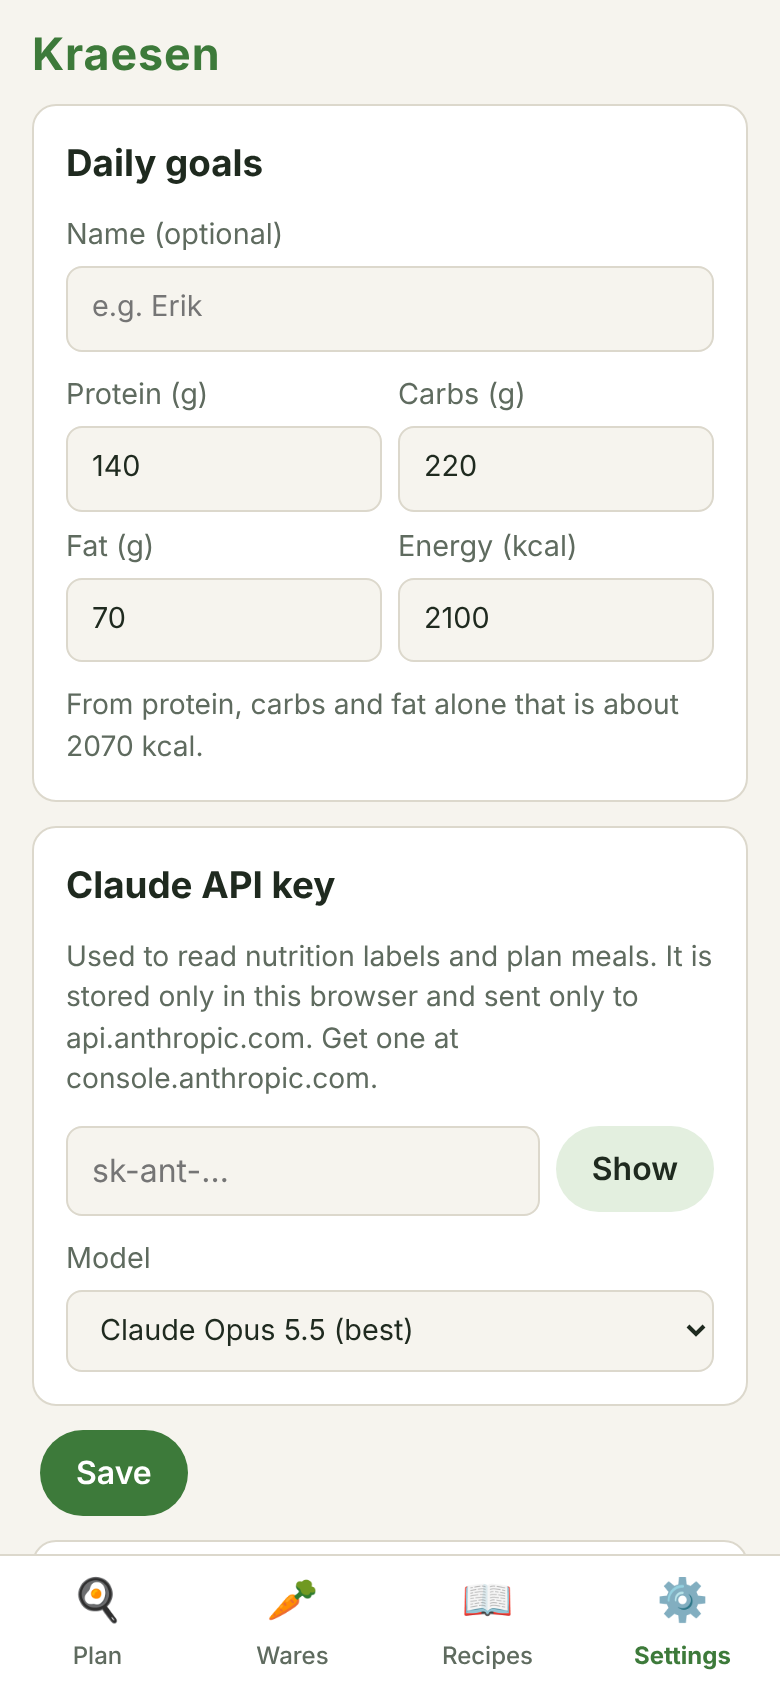
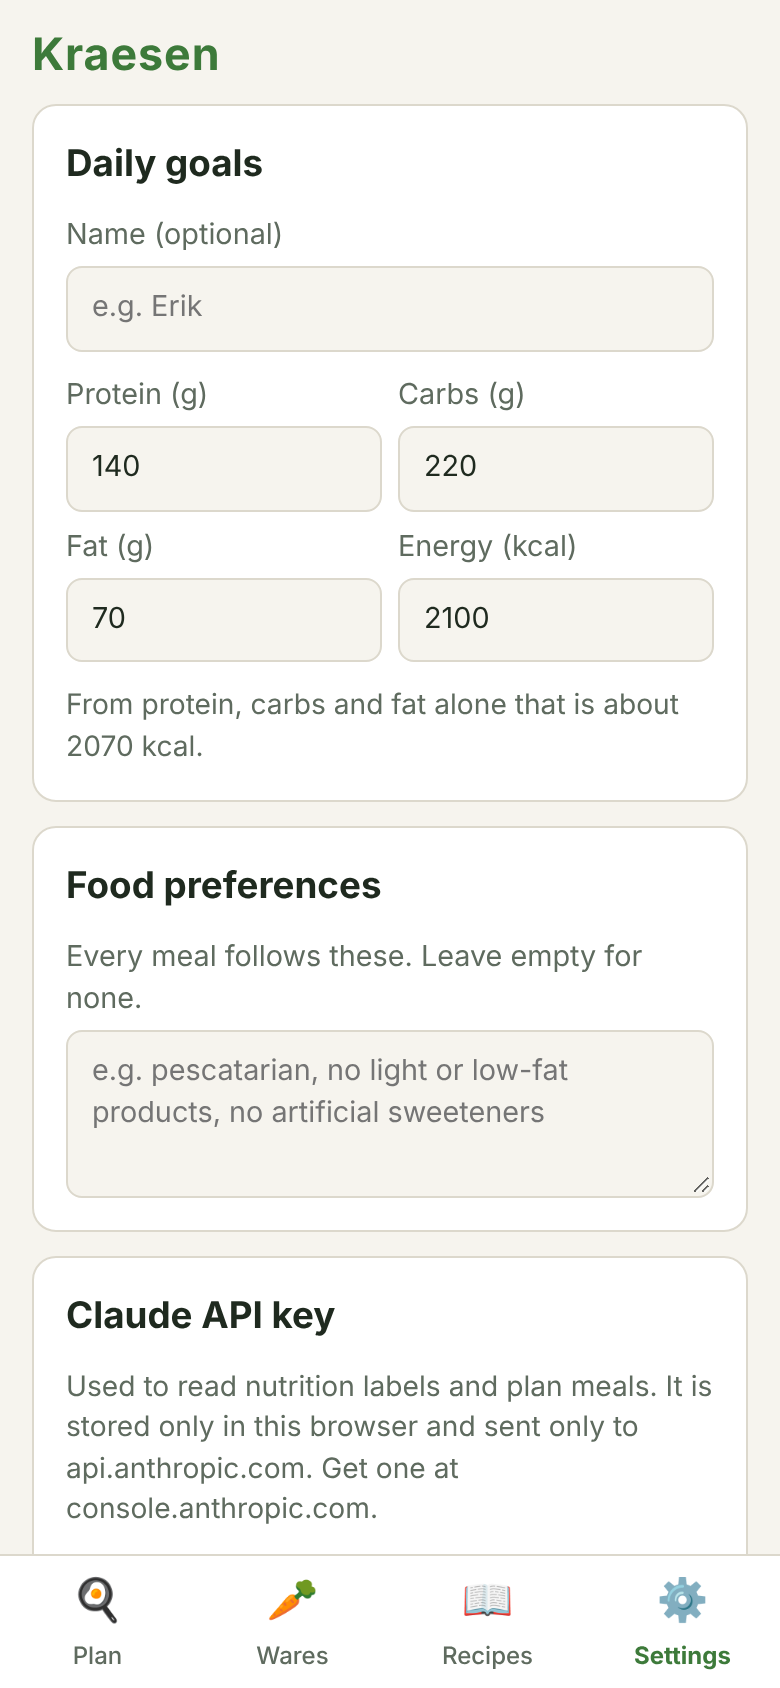
feat: food preferences sent with every meal request
Settings gets a free-text "Food preferences" field (for example
"pescatarian, no light or low-fat products"). It is stored in the profile,
exported with it, and sent with every meal request as a rule Claude must
follow, skipping any listed ware that conflicts with it.

Claude-Session: https://claude.ai/code/session_01NExJTuMKn94z8RMGD2mQMk

diff --git a/src/components/SettingsPage.tsx b/src/components/SettingsPage.tsx
@@ -15,6 +15,7 @@ export function SettingsPage() {
     state.profile?.dailyGoals ?? { protein: 140, carbs: 220, fat: 70, kcal: 2100 },
   )
   const [name, setName] = useState(state.profile?.name ?? '')
+  const [preferences, setPreferences] = useState(state.profile?.foodPreferences ?? '')
   const [apiKey, setApiKey] = useState(state.settings.apiKey)
   const [showKey, setShowKey] = useState(false)
   const [message, setMessage] = useState('')
@@ -23,7 +24,7 @@ export function SettingsPage() {
   const save = () => {
     update((s) => ({
       ...s,
-      profile: { name: name.trim(), dailyGoals: goals },
+      profile: { name: name.trim(), dailyGoals: goals, foodPreferences: preferences.trim() },
       settings: { ...s.settings, apiKey: apiKey.trim() },
     }))
     setMessage('Saved.')
@@ -46,6 +47,7 @@ export function SettingsPage() {
       replace(next)
       setGoals(next.profile?.dailyGoals ?? goals)
       setName(next.profile?.name ?? '')
+      setPreferences(next.profile?.foodPreferences ?? '')
       setMessage('Imported.')
     } catch (e) {
       setMessage(e instanceof Error ? e.message : 'Import failed.')
@@ -67,6 +69,19 @@ export function SettingsPage() {
           From protein, carbs and fat alone that is about {derivedKcal} kcal.
           {Math.abs(derivedKcal - goals.kcal) > goals.kcal * 0.1 && goals.kcal > 0 ? ' Your energy goal differs quite a bit from that.' : ''}
         </p>
+      </section>
+
+      <section className="card">
+        <h2>Food preferences</h2>
+        <label>
+          <span>Every meal follows these. Leave empty for none.</span>
+          <textarea
+            rows={3}
+            value={preferences}
+            onChange={(e) => setPreferences(e.target.value)}
+            placeholder="e.g. pescatarian, no light or low-fat products, no artificial sweeteners"
+          />
+        </label>
       </section>
 
       <section className="card">

diff --git a/src/claude.test.ts b/src/claude.test.ts
@@ -20,6 +20,7 @@ const req = (willingness: MealRequest['willingness']): MealRequest => ({
   target: { protein: 40, carbs: 20, fat: 10, kcal: 330 },
   willingness,
   wish: '',
+  preferences: '',
 })
 
 type Block = { type: 'tool_use'; id: string; name: string; input: unknown } | { type: 'text'; text: string }
@@ -141,6 +142,15 @@ describe('generateMeal', () => {
     const { client, requests } = scripted(chatty)
     await expect(run(client)).rejects.toThrow('did not finish')
     expect(requests.length).toBeLessThanOrEqual(16)
+  })
+
+  it('sends the food preferences with every request', async () => {
+    const { client, requests } = scripted([reply([{ type: 'tool_use', id: 'a', name: 'compute_portions', input: { ingredients: [{ ware_id: 'have1' }] } }]), reply([{ type: 'tool_use', id: 'b', name: 'submit_recipe', input: recipe('S1') }])])
+    await generateMeal(client, 'claude-opus-5-5', { ...req('some'), preferences: 'pescatarian' }, WARES, () => {})
+    expect(requests[0][0].content).toContain('Food preferences (always follow): pescatarian')
+    const plain = scripted([reply([{ type: 'tool_use', id: 'a', name: 'compute_portions', input: { ingredients: [{ ware_id: 'have1' }] } }]), reply([{ type: 'tool_use', id: 'b', name: 'submit_recipe', input: recipe('S1') }])])
+    await run(plain.client)
+    expect(plain.requests[0][0].content).not.toContain('Food preferences')
   })
 
   it('stops on a refusal', async () => {

diff --git a/src/claude.ts b/src/claude.ts
@@ -145,6 +145,8 @@ export interface MealRequest {
   target: Macros
   willingness: BuyWillingness
   wish: string
+  /** The user's standing food preferences from Settings; empty for none. */
+  preferences: string
 }
 
 export type AgentEvent =
@@ -247,11 +249,14 @@ function buildPrompt(req: MealRequest, have: Ware[], buy: Ware[], limit: number)
     '- Frozen wares are fine; mention thawing or cooking from frozen in the steps.\n' +
     '- Ingredients that come out at 0 g should be removed from the set before submitting.\n' +
     `- ${buyRule}\n` +
+    '- If the user states food preferences, every recipe must follow them, including extras and cooking fat. ' +
+    'Skip any listed ware that conflicts with them.\n' +
     '- Write in English. Keep steps concrete with times and temperatures.'
 
   const user =
     `Macro target for this meal: protein ${roundMacro('protein', req.target.protein)} g, carbs ${roundMacro('carbs', req.target.carbs)} g, ` +
     `fat ${roundMacro('fat', req.target.fat)} g, energy ${roundMacro('kcal', req.target.kcal)} kcal.\n` +
+    (req.preferences.trim() ? `Food preferences (always follow): ${req.preferences.trim()}\n` : '') +
     (req.wish.trim() ? `Wish for this meal: ${req.wish.trim()}\n` : '') +
     `\nHAVE (at home, want to use):\n${have.map(wareLine).join('\n') || '(none)'}\n` +
     (limit > 0 ? `\nBUY (willing to buy):\n${buy.map(wareLine).join('\n') || '(none)'}\n` : '')

diff --git a/src/persist.test.ts b/src/persist.test.ts
@@ -4,7 +4,7 @@ import { type AppState, emptyState } from './types'
 
 const sample = (): AppState => ({
   ...emptyState(),
-  profile: { name: 'Erik', dailyGoals: { protein: 150, carbs: 200, fat: 70, kcal: 2050 } },
+  profile: { name: 'Erik', dailyGoals: { protein: 150, carbs: 200, fat: 70, kcal: 2050 }, foodPreferences: 'pescatarian' },
   settings: { apiKey: 'sk-ant-secret', model: 'claude-opus-5-5' },
   wares: [
     {
@@ -80,5 +80,9 @@ describe('normalize', () => {
 
   it('ignores a profile without goals', () => {
     expect(normalize({ profile: {} }).profile).toBeNull()
+  })
+
+  it('reads a profile saved before food preferences existed', () => {
+    expect(normalize({ profile: { dailyGoals: { protein: 1 } } }).profile?.foodPreferences).toBe('')
   })
 })

diff --git a/src/components/MealPage.tsx b/src/components/MealPage.tsx
@@ -67,7 +67,7 @@ export function MealPage({ goToSettings, goToWares }: { goToSettings: () => void
       const r = await generateMeal(
         makeClient(state.settings.apiKey),
         state.settings.model,
-        { target, willingness, wish },
+        { target, willingness, wish, preferences: state.profile?.foodPreferences ?? '' },
         state.wares,
         (e) => setEvents((prev) => [...prev, e]),
         ac.signal,

diff --git a/src/persist.ts b/src/persist.ts
@@ -80,7 +80,7 @@ function readRecipe(v: unknown): Recipe | null {
 
 function readProfile(v: unknown): Profile | null {
   if (!isObj(v) || !isObj(v.dailyGoals)) return null
-  return { name: str(v.name) ?? '', dailyGoals: readMacros(v.dailyGoals) }
+  return { name: str(v.name) ?? '', dailyGoals: readMacros(v.dailyGoals), foodPreferences: str(v.foodPreferences) ?? '' }
 }
 
 export function normalize(s: unknown): AppState {

diff --git a/src/types.ts b/src/types.ts
@@ -42,6 +42,8 @@ export interface Ware {
 export interface Profile {
   name: string
   dailyGoals: Macros
+  /** Free text sent with every meal request as a rule Claude must follow, e.g. "pescatarian, no sweeteners". */
+  foodPreferences: string
 }
 
 export interface Settings {

diff --git a/src/index.css b/src/index.css
@@ -107,7 +107,8 @@ label > span {
 }
 
 input,
-select {
+select,
+textarea {
   font: inherit;
   padding: 10px 12px;
   border-radius: 8px;
